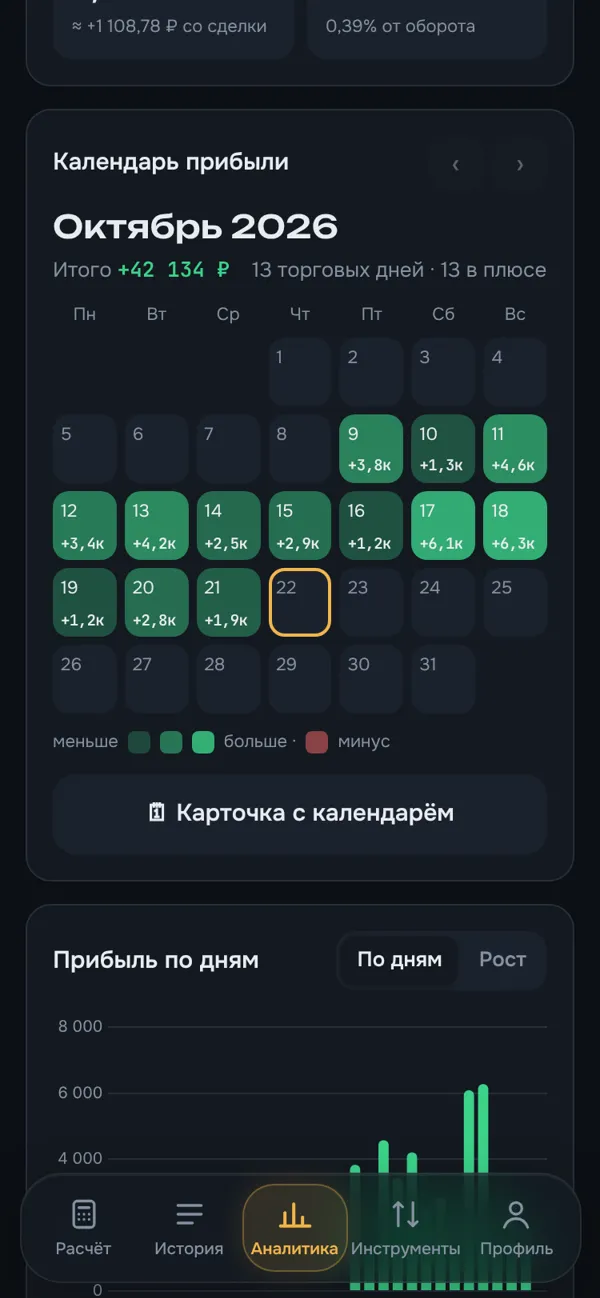
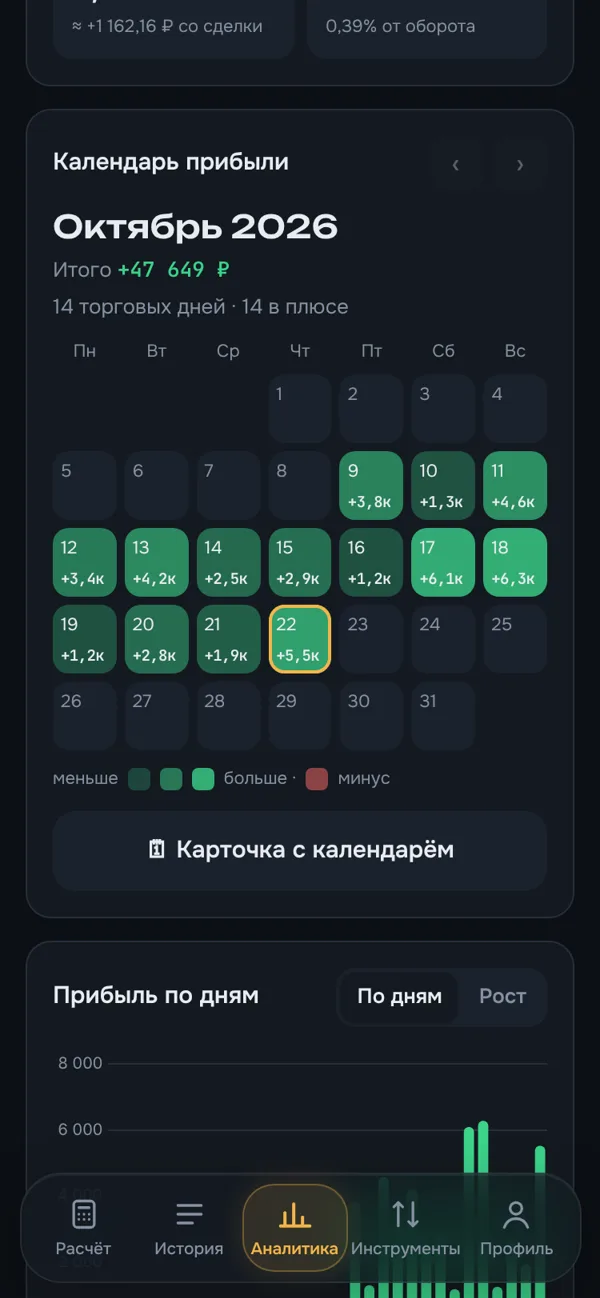
Landing: tablet and small-screen layouts, fix section spacing, smoother reveal and marquee, lighter background, fresh screenshots
Claude-Session: https://claude.ai/code/session_014xLvAiDo6T2nkpD6GPQHr2

diff --git a/index.html b/index.html
@@ -249,8 +249,7 @@ details.fees[open] summary .chev { transform: rotate(90deg); }
 .ld { position: fixed; inset: 0; z-index: 100; background: #0C0F14; color: #E8ECF2; overflow-y: auto; overflow-x: hidden; -webkit-overflow-scrolling: touch; font-family: var(--f-body, inherit); }
 .ld.out { opacity: 0; transition: opacity .3s ease; pointer-events: none; }
 .ld a { color: inherit; text-decoration: none; }
-.ld-glow { position: absolute; inset: 0 0 auto 0; height: 900px; background: radial-gradient(40% 50% at 20% 20%, rgba(242,181,75,.22), transparent 70%), radial-gradient(35% 45% at 85% 40%, rgba(60,211,138,.12), transparent 70%); pointer-events: none; }
-.ld-w { max-width: 1160px; margin: 0 auto; padding: 0 24px; position: relative; }
+.ld-w { max-width: 1160px; margin: 0 auto; padding-left: 24px; padding-right: 24px; position: relative; }
 .ld-nav { display: flex; align-items: center; gap: 12px; padding: calc(20px + env(safe-area-inset-top, 0px)) 0 20px; }
 .ld-nav .logo { width: 44px; height: 44px; border-radius: 13px; font-size: 17px; }
 .ld-nm { font-family: var(--f-display); font-weight: 700; font-size: 20px; }
@@ -259,11 +258,11 @@ details.fees[open] summary .chev { transform: rotate(90deg); }
 .ld-ln .ld-in { padding: 10px 18px; border-radius: 12px; border: 1px solid rgba(255,255,255,.15); color: #E8ECF2; }
 .ld-hero { display: grid; grid-template-columns: 1.1fr .9fr; gap: 40px; align-items: center; padding: 40px 0 70px; }
 .ld-tag { display: inline-flex; gap: 8px; align-items: center; padding: 8px 14px; border-radius: 999px; background: rgba(60,211,138,.12); color: #3CD38A; font-size: 14px; font-weight: 600; }
-.ld h1 { font-family: var(--f-display); font-weight: 700; font-size: 58px; line-height: 1.05; letter-spacing: -2px; margin: 22px 0 20px; }
+.ld h1 { font-family: var(--f-display); font-weight: 700; font-size: 58px; line-height: 1.05; letter-spacing: -2px; margin: 22px 0 20px; text-wrap: balance; }
 .ld h1 em { font-style: normal; color: #F2B54B; }
 .ld-lead { font-size: 20px; line-height: 1.5; color: #B4BCC9; max-width: 540px; }
 .ld-cta { display: flex; gap: 12px; margin-top: 32px; flex-wrap: wrap; }
-.ld-b1, .ld-b2 { padding: 17px 28px; border-radius: 16px; font: inherit; font-weight: 600; font-size: 17px; display: inline-flex; align-items: center; justify-content: center; gap: 10px; cursor: pointer; }
+.ld-b1, .ld-b2 { text-align: center; white-space: nowrap; padding: 17px 28px; border-radius: 16px; font: inherit; font-weight: 600; font-size: 17px; display: inline-flex; align-items: center; justify-content: center; gap: 10px; cursor: pointer; }
 .ld .ld-b1 { background: #F2B54B; color: #1B1405; }
 .ld .ld-b2 { background: none; border: 1px solid rgba(255,255,255,.18); color: #E8ECF2; }
 .ld-trust { display: flex; gap: 22px; margin-top: 28px; color: #8691A2; font-size: 14px; flex-wrap: wrap; }
@@ -287,7 +286,7 @@ details.fees[open] summary .chev { transform: rotate(90deg); }
 .ld-price { display: grid; grid-template-columns: 1fr 1fr; gap: 20px; max-width: 820px; margin: 40px auto 0; }
 .ld-pl { padding: 32px; border-radius: 28px; border: 1px solid rgba(255,255,255,.1); background: rgba(255,255,255,.03); display: flex; flex-direction: column; }
 .ld-pl.pro { border-color: rgba(242,181,75,.5); background: linear-gradient(180deg, rgba(242,181,75,.10), rgba(242,181,75,.02)); }
-.ld-pl h3 { font-family: var(--f-display); font-weight: 700; font-size: 24px; }
+.ld-pl h3 { font-family: var(--f-display); font-weight: 700; font-size: 24px; margin: 0; }
 .ld-pr { font-family: var(--f-display); font-weight: 700; font-size: 44px; margin: 14px 0 4px; }
 .ld-pr small { font-size: 16px; color: #9AA4B4; font-family: inherit; font-weight: 400; }
 .ld-pl ul { list-style: none; margin: 20px 0; padding: 0; display: flex; flex-direction: column; gap: 10px; color: #C8CFDA; flex: 1; }
@@ -307,17 +306,16 @@ details.fees[open] summary .chev { transform: rotate(90deg); }
   .ld-sec { padding: 44px 0; }
   .ld-b1, .ld-b2 { width: 100%; }
   .ld-trust { gap: 10px 18px; }
-  .ld-w { padding: 0 16px; }
+  .ld-w { padding-left: 16px; padding-right: 16px; }
 }
 /* Лендинг: анимации. Без анимаций (настройка «уменьшить движение») всё видно сразу */
 @property --ld-a { syntax: '<angle>'; inherits: false; initial-value: 0deg; }
 .ld-bg { position: absolute; inset: 0 0 auto 0; height: 1100px; overflow: hidden; pointer-events: none; }
-.ld-blob { position: absolute; border-radius: 50%; filter: blur(70px); opacity: .55; will-change: transform; }
-.ld-blob.a { width: 620px; height: 520px; left: -160px; top: -140px; background: rgba(242,181,75,.42); animation: ldDrift 16s ease-in-out infinite alternate; }
-.ld-blob.b { width: 520px; height: 460px; right: -140px; top: 220px; background: rgba(60,211,138,.22); animation: ldDrift 19s ease-in-out -6s infinite alternate-reverse; }
-.ld-gridbg { position: absolute; inset: 0; background-image: linear-gradient(rgba(255,255,255,.035) 1px, transparent 1px), linear-gradient(90deg, rgba(255,255,255,.035) 1px, transparent 1px); background-size: 64px 64px; -webkit-mask-image: radial-gradient(70% 60% at 50% 20%, #000, transparent 75%); mask-image: radial-gradient(70% 60% at 50% 20%, #000, transparent 75%); animation: ldGrid 24s linear infinite; }
+.ld-blob { position: absolute; border-radius: 50%; will-change: transform; }
+.ld-blob.a { width: 620px; height: 520px; left: -160px; top: -140px; background: radial-gradient(closest-side, rgba(242,181,75,.30), rgba(242,181,75,.10) 55%, transparent); animation: ldDrift 16s ease-in-out infinite alternate; }
+.ld-blob.b { width: 520px; height: 460px; right: -140px; top: 220px; background: radial-gradient(closest-side, rgba(60,211,138,.16), rgba(60,211,138,.05) 55%, transparent); animation: ldDrift 19s ease-in-out -6s infinite alternate-reverse; }
+.ld-gridbg { position: absolute; inset: 0; background-image: linear-gradient(rgba(255,255,255,.035) 1px, transparent 1px), linear-gradient(90deg, rgba(255,255,255,.035) 1px, transparent 1px); background-size: 64px 64px; -webkit-mask-image: radial-gradient(70% 60% at 50% 20%, #000, transparent 75%); mask-image: radial-gradient(70% 60% at 50% 20%, #000, transparent 75%); }
 @keyframes ldDrift { to { transform: translate(140px, 90px) scale(1.15); } }
-@keyframes ldGrid { to { background-position: 0 64px, 64px 0; } }
 .ld-navw { position: sticky; top: 0; z-index: 6; transition: background .35s ease, box-shadow .35s ease, backdrop-filter .35s ease; }
 .ld-navw.sc { background: rgba(12,15,20,.72); -webkit-backdrop-filter: blur(14px) saturate(1.4); backdrop-filter: blur(14px) saturate(1.4); box-shadow: 0 1px 0 rgba(255,255,255,.07); }
 .ld-navw .ld-nav { padding-top: calc(14px + env(safe-area-inset-top, 0px)); padding-bottom: 14px; }
@@ -331,8 +329,10 @@ details.fees[open] summary .chev { transform: rotate(90deg); }
 .ld .ld-b1, .ld .ld-b2 { position: relative; overflow: hidden; transition: transform .25s cubic-bezier(.2,.8,.2,1), box-shadow .25s ease, border-color .25s ease, background .25s ease; }
 .ld .ld-b1::after { content: ""; position: absolute; top: 0; bottom: 0; left: -60%; width: 40%; background: linear-gradient(100deg, transparent, rgba(255,255,255,.6), transparent); transform: skewX(-20deg); animation: ldSweep 4.2s ease-in-out 2.2s infinite; }
 @keyframes ldSweep { 0% { left: -60%; } 28%, 100% { left: 140%; } }
-.ld .ld-b1:hover { transform: translateY(-2px); box-shadow: 0 12px 34px rgba(242,181,75,.35); }
-.ld .ld-b2:hover { transform: translateY(-2px); border-color: rgba(255,255,255,.4); background: rgba(255,255,255,.04); }
+@media (hover: hover) {
+  .ld .ld-b1:hover { transform: translateY(-2px); box-shadow: 0 12px 34px rgba(242,181,75,.35); }
+  .ld .ld-b2:hover { transform: translateY(-2px); border-color: rgba(255,255,255,.4); background: rgba(255,255,255,.04); }
+}
 .ld .ld-b1:active, .ld .ld-b2:active { transform: scale(.97); }
 .ld-px { position: absolute; will-change: transform; }
 .ld-px.a { left: 10px; top: 40px; } .ld-px.b { right: 0; top: 0; }
@@ -346,24 +346,27 @@ details.fees[open] summary .chev { transform: rotate(90deg); }
 .ld-chip { position: absolute; z-index: 3; display: flex; align-items: center; gap: 10px; padding: 12px 16px; border-radius: 18px; background: rgba(22,27,35,.82); -webkit-backdrop-filter: blur(12px); backdrop-filter: blur(12px); border: 1px solid rgba(255,255,255,.1); box-shadow: 0 18px 40px rgba(0,0,0,.45); font-size: 13px; color: #9AA4B4; white-space: nowrap; opacity: 0; animation: ldPop .7s cubic-bezier(.2,1.4,.4,1) forwards, ldBob 5s ease-in-out infinite; }
 .ld-chip b { display: block; color: #E8ECF2; font-family: var(--f-mono); font-size: 16px; font-weight: 600; }
 .ld-chip .g { color: #3CD38A; } .ld-chip .em { font-size: 22px; }
-.ld-chip.c1 { left: -30px; top: 330px; animation-delay: 1.3s, 2s; }
-.ld-chip.c2 { right: -20px; top: 450px; animation-delay: 1.6s, 3.2s; }
-.ld-chip.c3 { left: 120px; top: -10px; animation-delay: 1.9s, 1s; }
+.ld-chip.c1 { left: -30px; top: 330px; animation-delay: 1.3s, 2.1s; }
+.ld-chip.c2 { right: -20px; top: 450px; animation-delay: 1.6s, 2.4s; }
+.ld-chip.c3 { left: 120px; top: -10px; animation-delay: 1.9s, 2.7s; }
 @keyframes ldPop { from { opacity: 0; transform: scale(.6) translateY(16px); } to { opacity: 1; transform: none; } }
 .ld-live { width: 7px; height: 7px; border-radius: 50%; background: #3CD38A; display: inline-block; margin-right: 6px; animation: ldPing 2s ease-out infinite; }
 .ld-mq { overflow: hidden; padding: 18px 0; border-top: 1px solid rgba(255,255,255,.06); border-bottom: 1px solid rgba(255,255,255,.06); -webkit-mask-image: linear-gradient(90deg, transparent, #000 12%, #000 88%, transparent); mask-image: linear-gradient(90deg, transparent, #000 12%, #000 88%, transparent); }
-.ld-mq > div { display: flex; gap: 46px; width: max-content; animation: ldMq 32s linear infinite; }
-.ld-mq span { font-family: var(--f-display); font-weight: 700; font-size: 20px; color: rgba(232,236,242,.32); white-space: nowrap; }
-.ld-mq span i { font-style: normal; color: #F2B54B; margin-right: 46px; }
+.ld-mq > div { display: flex; width: max-content; animation: ldMq 32s linear infinite; }
+.ld-mq span { display: block; font-family: var(--f-display); font-weight: 700; font-size: 20px; color: rgba(232,236,242,.32); white-space: nowrap; }
+.ld-mq span i { font-style: normal; color: #F2B54B; margin: 0 40px; }
 @keyframes ldMq { to { transform: translateX(-50%); } }
-.rv { opacity: 0; transform: translateY(30px); transition: opacity .7s ease, transform .85s cubic-bezier(.2,.8,.2,1); transition-delay: calc(var(--i, 0) * 85ms); }
-.rv.in { opacity: 1; transform: none; }
-.ld-f { position: relative; overflow: hidden; transition: opacity .7s ease, transform .85s cubic-bezier(.2,.8,.2,1), border-color .3s ease; }
+.rv { opacity: 0; }
+.rv.in { opacity: 1; animation: ldRv .85s cubic-bezier(.2,.8,.2,1) backwards; animation-delay: calc(var(--i, 0) * 85ms); }
+@keyframes ldRv { from { opacity: 0; transform: translateY(30px); } }
+.ld-f { position: relative; overflow: hidden; transition: transform .35s cubic-bezier(.2,.8,.2,1), border-color .3s ease; }
 .ld-f::before { content: ""; position: absolute; inset: 0; background: radial-gradient(280px circle at var(--x, 50%) var(--y, -30%), rgba(242,181,75,.16), transparent 60%); opacity: 0; transition: opacity .3s ease; pointer-events: none; }
-.ld-f.in:hover { transform: translateY(-6px); border-color: rgba(242,181,75,.35); transition-delay: 0s; }
-.ld-f:hover::before { opacity: 1; }
 .ld-f i { transition: transform .5s cubic-bezier(.2,1.6,.4,1); }
-.ld-f:hover i { transform: rotate(-10deg) scale(1.15); }
+@media (hover: hover) {   /* на телефонах наведения нет — эффекты не «залипают» после касания */
+  .ld-f:hover { transform: translateY(-6px); border-color: rgba(242,181,75,.35); }
+  .ld-f:hover::before { opacity: 1; }
+  .ld-f:hover i { transform: rotate(-10deg) scale(1.15); }
+}
 .ld-steps { position: relative; }
 .ld-steps::before { content: ""; position: absolute; top: 38px; left: 17%; right: 17%; height: 2px; background: linear-gradient(90deg, #F2B54B, rgba(242,181,75,.15)); transform: scaleX(0); transform-origin: left; transition: transform 1.4s cubic-bezier(.6,0,.2,1) .3s; }
 .ld-steps.in::before { transform: scaleX(1); }
@@ -381,20 +384,39 @@ details.fees[open] summary .chev { transform: rotate(90deg); }
 .ld-res b { display: block; font-family: var(--f-display); font-weight: 700; font-size: 54px; letter-spacing: -2px; margin: 8px 0; color: #3CD38A; transition: color .3s ease; }
 .ld-res b.neg { color: #FF6B6B; }
 .ld-res small { color: #8691A2; font-size: 13px; }
-.ld-pl { transition: opacity .7s ease, transform .85s cubic-bezier(.2,.8,.2,1); }
 .ld-pl.pro { position: relative; isolation: isolate; }
 .ld-pl.pro::before { content: ""; position: absolute; inset: -1px; border-radius: inherit; padding: 1.5px; background: conic-gradient(from var(--ld-a), transparent 0 62%, #F2B54B 80%, #FFE7AE 86%, transparent 94%); -webkit-mask: linear-gradient(#000 0 0) content-box, linear-gradient(#000 0 0); -webkit-mask-composite: xor; mask: linear-gradient(#000 0 0) content-box exclude, linear-gradient(#000 0 0); animation: ldSpin 5s linear infinite; pointer-events: none; z-index: -1; }
 @keyframes ldSpin { to { --ld-a: 360deg; } }
 .ld-badge { align-self: flex-start; margin-top: 10px; padding: 6px 12px; border-radius: 999px; background: rgba(60,211,138,.14); color: #3CD38A; font-size: 13px; font-weight: 600; }
+@media (min-width: 761px) and (max-width: 1100px) {
+  .ld-hero { grid-template-columns: 1fr; gap: 30px; padding: 30px 0 60px; }
+  .ld-hero > div:first-child { max-width: 640px; }
+  .ld h1 { font-size: 52px; }
+  .ld-phones { width: 100%; max-width: 600px; height: 600px; margin: 0 auto; }
+  .ld-ph { width: 270px; }
+  .ld-chip.c1 { left: -10px; top: 300px; } .ld-chip.c2 { right: -10px; top: 420px; }
+  .ld-grid { grid-template-columns: repeat(2, 1fr); }
+  .ld-try { grid-template-columns: 1fr; }
+}
 @media (max-width: 760px) {
-  .ld-px.a { left: 4px; top: 40px; } .ld-px.b { right: 8px; top: 0; }
+  .ld-px.a { left: 8px; top: 40px; } .ld-px.b { right: 10px; top: 0; }
   .ld-chip { padding: 9px 12px; font-size: 11px; border-radius: 14px; }
   .ld-chip b { font-size: 13px; } .ld-chip .em { font-size: 17px; }
   .ld-chip.c1 { left: 0; top: 250px; } .ld-chip.c2 { right: 4px; top: 340px; } .ld-chip.c3 { left: 70px; top: -14px; }
   .ld-steps::before { display: none; }
   .ld-try { grid-template-columns: 1fr; padding: 20px; }
-  .ld-res b { font-size: 42px; }
+  .ld-res b { font-size: clamp(30px, 11vw, 42px); white-space: nowrap; }
+  .ld-pl { padding: 24px 22px; }
+  .ld-pr { font-size: 38px; }
   .ld-mq span { font-size: 16px; }
+}
+@media (max-width: 360px) {
+  .ld .ld-b1, .ld .ld-b2 { padding: 15px 16px; font-size: 16px; }
+  .ld h1 { font-size: 34px; }
+}
+@media (max-height: 500px) and (orientation: landscape) {
+  .ld h1 { font-size: 40px; }
+  .ld-phones { height: 520px; }
 }
 @media (prefers-reduced-motion: reduce) {
   .ld *, .ld *::before, .ld *::after { animation: none !important; transition: none !important; }
@@ -3776,9 +3798,9 @@ function showLanding(authMode) {
   const io = 'IntersectionObserver' in window && !reduceMotion ? new IntersectionObserver(es => es.forEach(x => { if (x.isIntersecting) { x.target.classList.add('in'); io.unobserve(x.target); } }), { root: el, rootMargin: '0px 0px -8% 0px', threshold: .12 }) : null;
   el.querySelectorAll('.rv').forEach(x => io ? io.observe(x) : x.classList.add('in'));
   // Шапка темнеет при прокрутке; телефоны чуть плывут за мышью и прокруткой
-  const px = [...el.querySelectorAll('.ld-px')]; let mx = 0, my = 0, raf = 0;
+  const px = [...el.querySelectorAll('.ld-px')], wide = matchMedia('(min-width: 1101px)'); let mx = 0, my = 0, raf = 0;   // телефоны плывут при прокрутке только на широком экране, где они сбоку от текста
   const move = () => { raf = 0; el.querySelectorAll('.rv:not(.in)').forEach(x => { if (x.getBoundingClientRect().top < innerHeight) x.classList.add('in'); });   // быстрая прокрутка могла проскочить блок
-    if (reduceMotion) return; const sy = Math.min(el.scrollTop, 900); px.forEach(p => { const d = +p.dataset.depth; p.style.transform = `translate3d(${mx * d}px, ${my * d - sy * d / 120}px, 0)`; }); };
+    if (reduceMotion) return; const sy = wide.matches ? Math.min(el.scrollTop, 900) : 0; px.forEach(p => { const d = +p.dataset.depth; p.style.transform = `translate3d(${mx * d}px, ${my * d - sy * d / 120}px, 0)`; }); };
   const kick = () => { if (!raf) raf = requestAnimationFrame(move); };
   el.addEventListener('scroll', () => { $('ldNav').classList.toggle('sc', el.scrollTop > 10); kick(); }, { passive: true });
   if (matchMedia('(pointer: fine)').matches) el.addEventListener('pointermove', e => { mx = e.clientX / innerWidth - .5; my = e.clientY / innerHeight - .5; kick(); });
